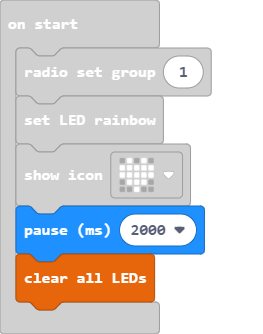
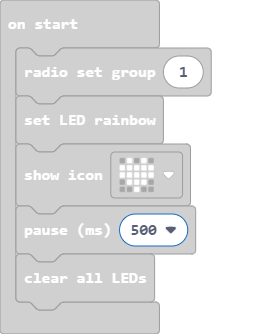
Update main.blocks, main.ts

Changed region(s): [[0.0304, 0.5988, 0.7909, 0.9281]]

diff --git a/main.ts b/main.ts
@@ -31,7 +31,7 @@ bitcommander.onEvent(BCPins.Blue, BCEvents.Up, function () {
 radio.setGroup(1)
 bitcommander.ledRainbow()
 basic.showIcon(IconNames.Heart)
-basic.pause(2000)
+basic.pause(500)
 bitcommander.ledClear()
 basic.forever(function () {
     radio.sendValue("x", bitcommander.readJoystick(BCJoystick.X))
